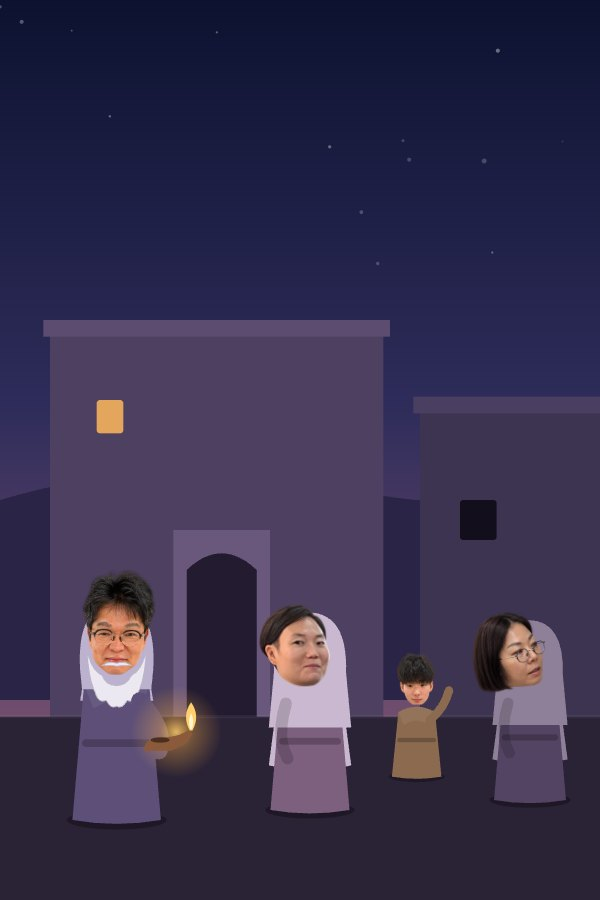
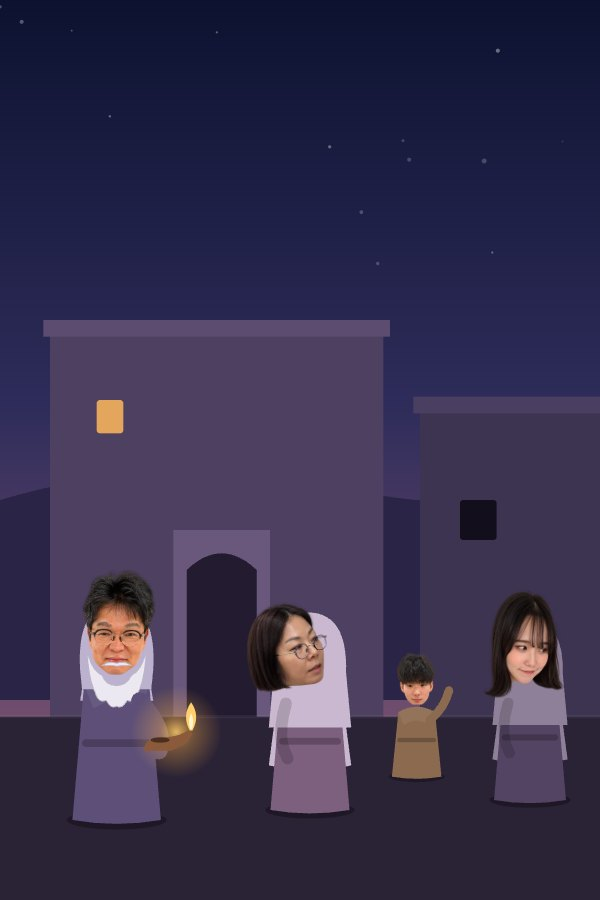
고등부 배역 조정: 부부는 성경 속 부부로, 임원은 큰 배역으로

Changed region(s): [[0.78, 0.6533, 0.96, 0.7778], [0.42, 0.6533, 0.57, 0.7778]]

diff --git a/story/cast.js b/story/cast.js
@@ -30,25 +30,25 @@ window.FACES = {
 // 배역 → 선생님. role은 출연진 화면에 보이는 이름
 window.CAST_LIST = [
   { key: '사가랴', t: 't13', role: '사가랴', note: '1장 · 늙은 제사장' },
-  { key: '엘리사벳', t: 't23', role: '엘리사벳', note: '1·3장 · 사가랴의 아내' },
-  { key: '요셉', t: 't14', role: '요셉', note: '2장 · 나사렛의 목수' },
-  { key: '마리아', t: 't05', role: '마리아', note: '3장 · 나사렛의 처녀' },
+  { key: '엘리사벳', t: 't16', role: '엘리사벳', note: '1·3장 · 사가랴의 아내' },
+  { key: '요셉', t: 't18', role: '요셉', note: '2장 · 나사렛의 목수' },
+  { key: '마리아', t: 't20', role: '마리아', note: '3장 · 나사렛의 처녀' },
   { key: '할아버지', t: 't17', role: '목자 할아버지', note: '4장 · 들판의 늙은 목자' },
   { key: '목자', t: 't04', role: '목자 아저씨', note: '4장 · 함께 밤을 지키는 목자' },
-  { key: '천사', t: 't21', role: '천사 가브리엘', note: '1·3장 · 사가랴와 마리아에게' },
-  { key: '천사@2', t: 't01', role: '꿈속의 천사', note: '2장 · 요셉의 꿈에' },
-  { key: '천사@4', t: 't02', role: '들판의 천사', note: '4장 · 목자들에게' },
+  { key: '천사', t: 't23', role: '천사 가브리엘', note: '1·3장 · 사가랴와 마리아에게' },
+  { key: '천사@2', t: 't21', role: '꿈속의 천사', note: '2장 · 요셉의 꿈에' },
+  { key: '천사@4', t: 't05', role: '들판의 천사', note: '4장 · 목자들에게' },
   { key: '제사장', t: 't06', role: '제사장', note: '1장 · 제비를 뽑는 제사장' },
   { key: '젊은 제사장', t: 't11', role: '젊은 제사장', note: '1장 · 처음 성전에 온 제사장' },
   { key: '꼬마', t: 't10', role: '동네 꼬마', note: '1장 · 성전이 궁금한 아이' },
-  { key: '이웃@1', t: 't16', role: '이웃 아주머니', note: '1장 · 소곤소곤' },
+  { key: '이웃@1', t: 't01', role: '이웃 아주머니', note: '1장 · 소곤소곤' },
   { key: '이웃@2', t: 't09', role: '우물가 아주머니', note: '2장 · 나사렛 우물가' },
   { key: '이웃2@2', t: 't07', role: '수군대는 아저씨', note: '2장 · 나사렛 우물가' },
   { key: '이웃@4', t: 't12', role: '베들레헴 아주머니', note: '4장 · 마을방' },
-  { key: '이웃2@4', t: 't18', role: '베들레헴 아저씨', note: '4장 · 마을방' },
+  { key: '이웃2@4', t: 't14', role: '베들레헴 아저씨', note: '4장 · 마을방' },
   { key: '여관 주인', t: 't08', role: '여관 주인', note: '4장 · 방이 없어요!' },
   { key: '군인', t: 't22', role: '로마 군인', note: '4장 · 호적 줄 담당' },
-  { key: '사람들', t: 't20', role: '지친 나그네', note: '4장 · 호적하러 온 사람' },
+  { key: '사람들', t: 't02', role: '지친 나그네', note: '4장 · 호적하러 온 사람' },
   { key: '친척 아저씨', t: 't19', role: '친척 아저씨', note: '3장 · 요한의 이름 짓는 날' },
   { key: '친척 아주머니', t: 't24', role: '친척 아주머니', note: '3장 · 요한의 이름 짓는 날' },
   { key: '친척 청년', t: 't15', role: '친척 청년', note: '3장 · 요한의 이름 짓는 날' },
@@ -57,4 +57,4 @@ window.CAST_LIST = [
 window.CAST = {};
 CAST_LIST.forEach(c => { CAST[c.key] = c.t; });
 // 들판의 천군(4장): 가운데 천사 말고 둘레 천사들
-window.HOST = ['t21', 't01', 't03', 't20'];
+window.HOST = ['t23', 't21', 't03', 't24'];
